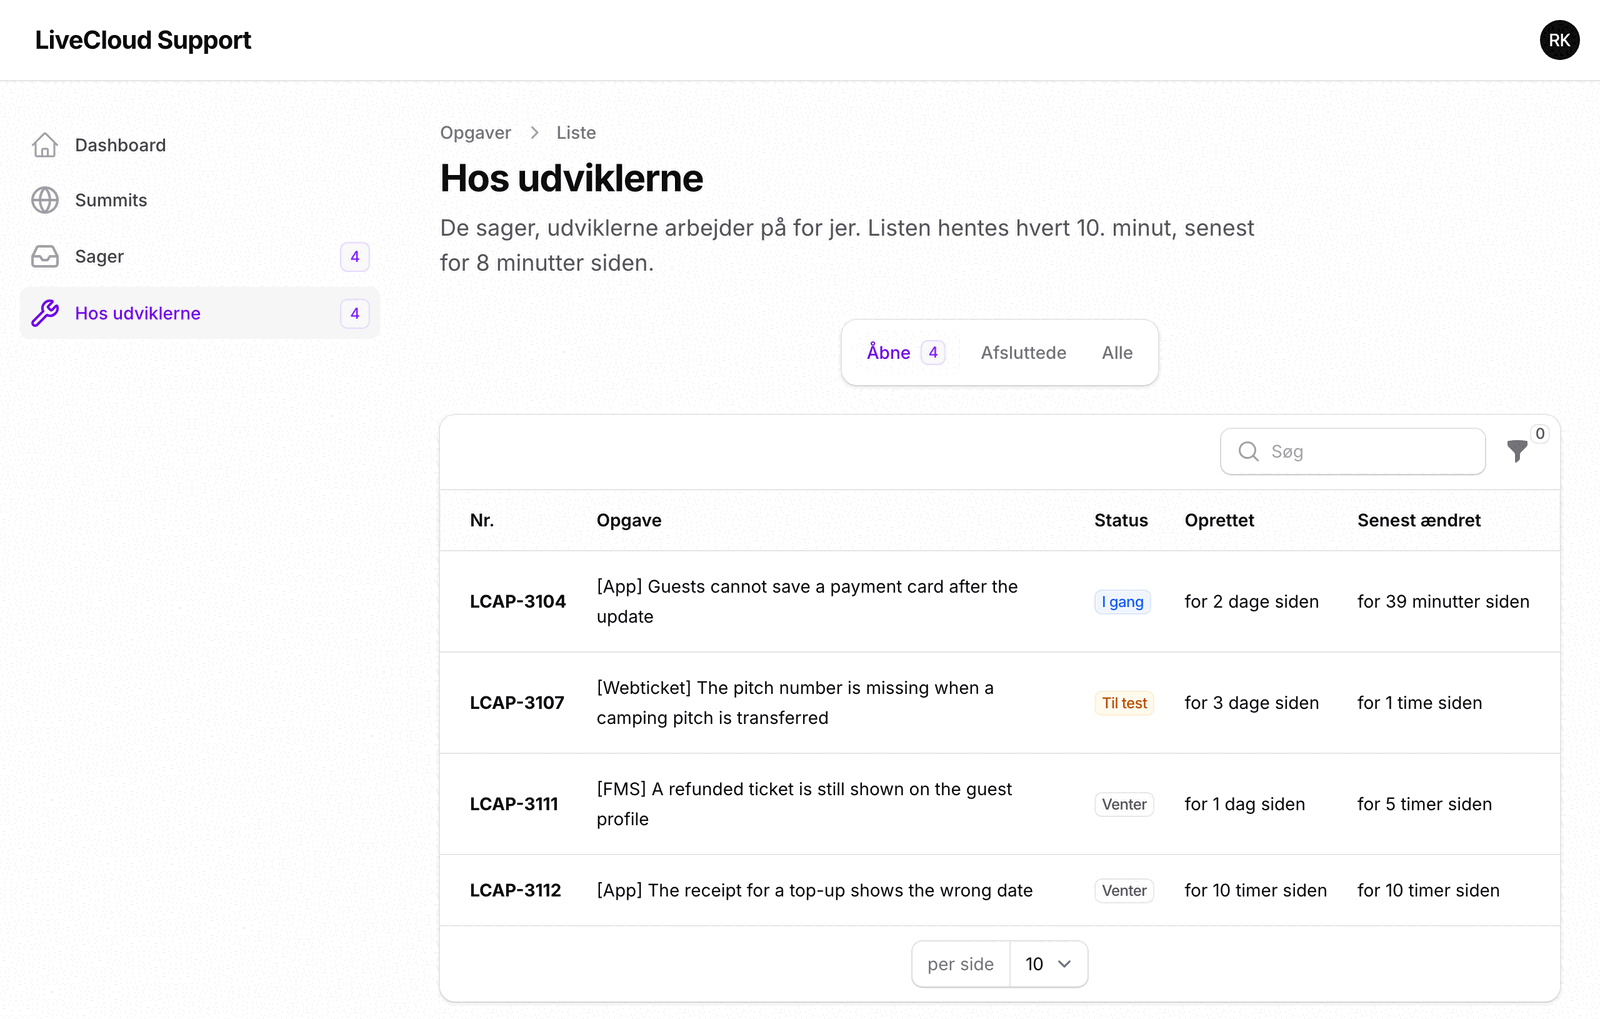
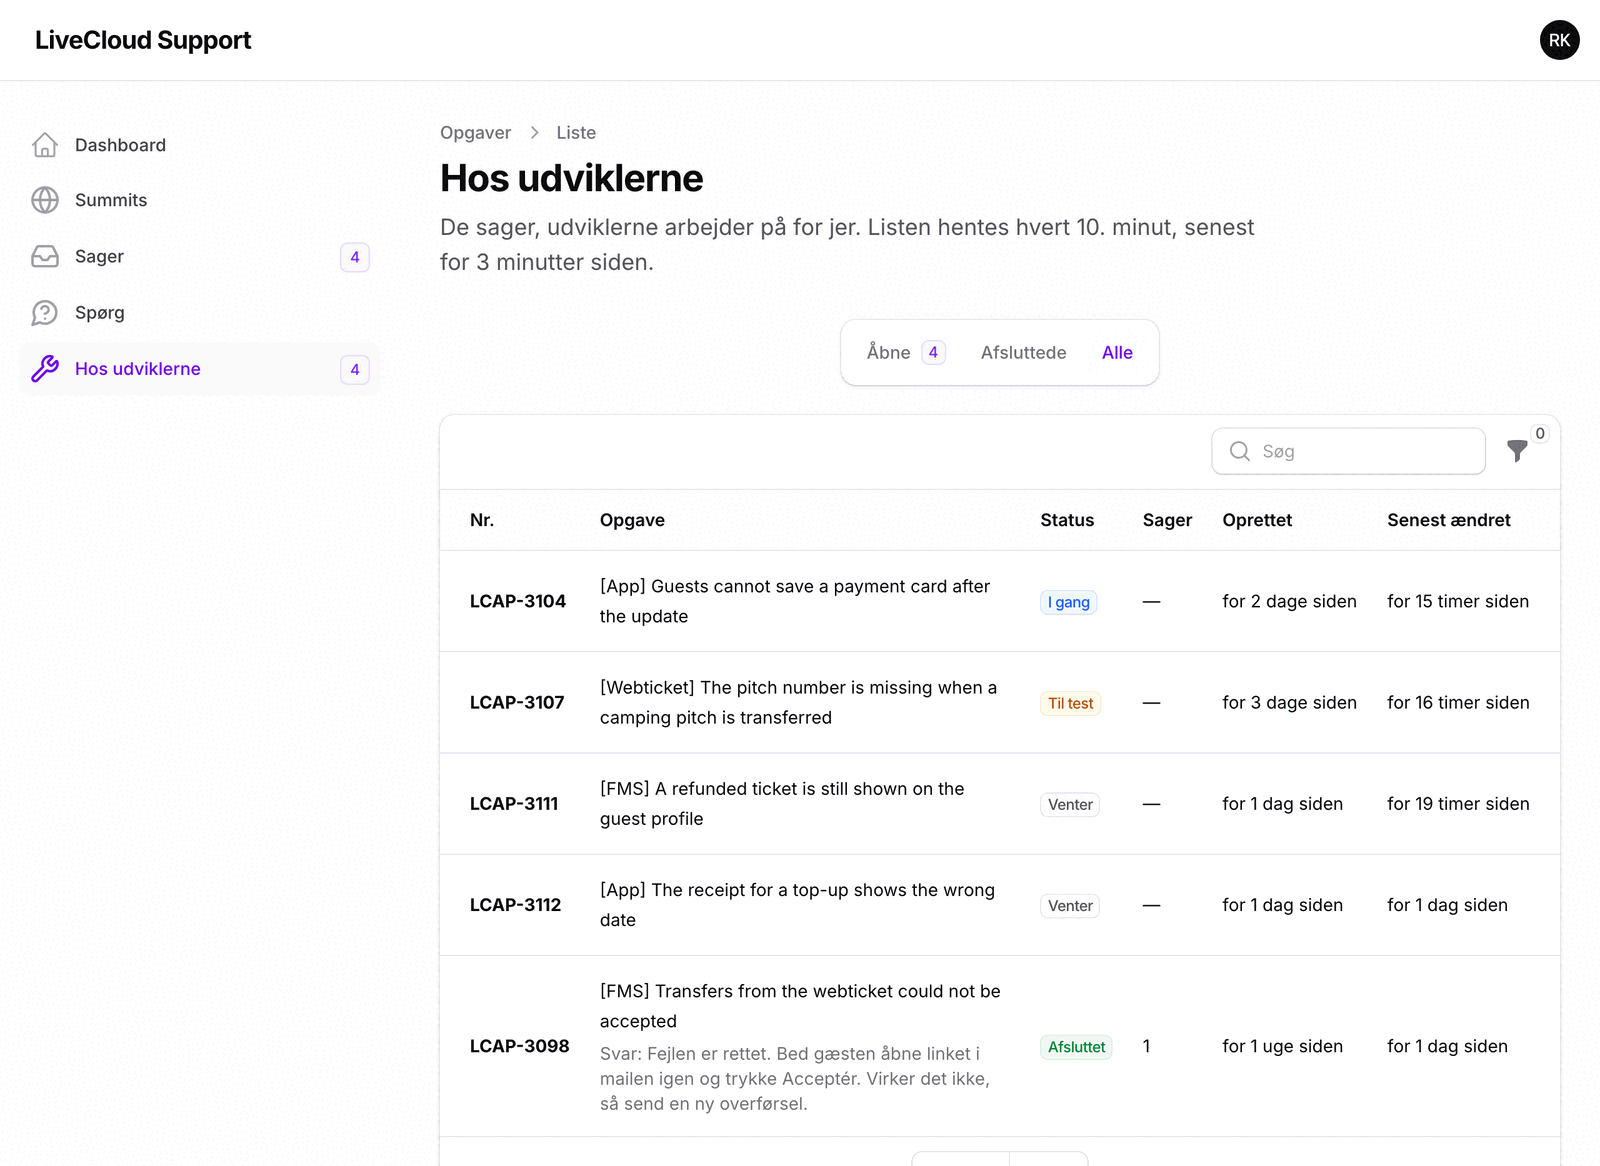
docs(guides): support guide - Spørg, wider search, files on messages, developer task on the case

diff --git a/personale-guides/support-kundeservice.html b/personale-guides/support-kundeservice.html
@@ -90,6 +90,7 @@
     <a href="#svar">Skriv videre på sagen</a>
     <a href="#loest">Når gæsten har fået svar</a>
     <div class="g">Find svaret</div>
+    <a href="#spoerg">Spørg</a>
     <a href="#samme">Samme problem</a>
     <a href="#udviklerne">Hos udviklerne</a>
     <div class="g">Til sidst</div>
@@ -110,7 +111,7 @@
   <div class="roles">
     <div class="box"><h3>Du skal melde en sag</h3><p>Gæsten har et problem, du ikke selv kan løse.</p><ol class="steps"><li><a href="#mail">Pr. mail</a></li><li><a href="#opret">Direkte i systemet</a></li></ol></div>
     <div class="box"><h3>Du vil følge en sag</h3><p>Du vil se, hvad der er sket, eller skrive nyt til LiveCloud.</p><ol class="steps"><li><a href="#sager">Find jeres sager</a></li><li><a href="#svar">Skriv videre på sagen</a></li><li><a href="#loest">Når gæsten har fået svar</a></li></ol></div>
-    <div class="box"><h3>Du leder efter svaret</h3><p>Du vil se, om problemet allerede har en løsning.</p><ol class="steps"><li><a href="#samme">Samme problem</a></li><li><a href="#udviklerne">Hos udviklerne</a></li></ol></div>
+    <div class="box"><h3>Du leder efter svaret</h3><p>Du vil se, om problemet allerede har en løsning.</p><ol class="steps"><li><a href="#spoerg">Spørg</a></li><li><a href="#samme">Samme problem</a></li><li><a href="#udviklerne">Hos udviklerne</a></li></ol></div>
   </div>
   </div>
 
@@ -123,8 +124,8 @@
   </ol>
   <p class="ctx">Mangler en kollega adgang, skriver du til support@livecloud.dk. LiveCloud opretter brugeren.</p>
   <div class="shots"><figure>
-    <img src="img/support-system/sagsliste.png" alt="Sagslisten med menuen til venstre" width="1600" height="1091" loading="lazy">
-    <figcaption><b>Sagslisten.</b> Menuen til venstre har de to punkter, du bruger hver dag: Sager og Hos udviklerne.</figcaption>
+    <img src="img/support-system/sagsliste.png" alt="Sagslisten med menuen til venstre" width="1600" height="1100" loading="lazy">
+    <figcaption><b>Sagslisten.</b> Menuen til venstre har de tre punkter, du bruger hver dag: Sager, Spørg og Hos udviklerne.</figcaption>
   </figure></div>
   </div>
 
@@ -186,7 +187,7 @@
 
   <div class="unit">
   <h3 id="sager">Find jeres sager</h3>
-  <p class="ctx">Under <b>Sager</b> står alle jeres sager. Øverst vælger du mellem <span class="chip">Aktive</span>, <span class="chip">Arkiverede</span> og <span class="chip">Alle</span>. Tryk på <span class="chip">Vis</span> for at åbne en sag. I søgefeltet søger du på et ord fra sagens overskrift.</p>
+  <p class="ctx">Under <b>Sager</b> står alle jeres sager. Øverst vælger du mellem <span class="chip">Aktive</span>, <span class="chip">Arkiverede</span> og <span class="chip">Alle</span>. Tryk på <span class="chip">Vis</span> for at åbne en sag. I søgefeltet søger du på et ord, gæstens e-mail, ordrenummeret eller sagens nummer.</p>
   <table class="means">
     <tr><th>Status</th><th>Det betyder</th></tr>
     <tr><td>Ny</td><td>Sagen er modtaget. Ingen hos LiveCloud har taget den endnu.</td></tr>
@@ -205,6 +206,7 @@
     <tr><td>Sagen</td><td>Status, gæstens e-mail, ordrenummer og hvornår sagen er oprettet.</td></tr>
     <tr><td>Beskrivelse</td><td>Din mail: dit spørgsmål øverst og gæstens mail nedenunder.</td></tr>
     <tr><td>Samme problem</td><td>Løsningen, hvis flere sager handler om det samme. Se <a href="#samme">Samme problem</a>.</td></tr>
+    <tr><td>Hos udviklerne</td><td>Vises, når sagen hører til en opgave hos udviklerne. Her står opgavens status og udviklernes svar.</td></tr>
     <tr><td>Beskeder</td><td>Det, I og LiveCloud har skrevet til hinanden om sagen.</td></tr>
     <tr><td>Billethistorik &amp; opslag</td><td>Knappen <span class="chip">Åbn i Ringsted billet-opslag</span> åbner opslaget i FMS.</td></tr>
     <tr><td>Tidslinje</td><td>Hvad der er sket med sagen, og hvornår.</td></tr>
@@ -219,10 +221,14 @@
   <h3 id="svar">Skriv videre på sagen</h3>
   <p class="ctx">Har du nyt til sagen, eller vil du svare LiveCloud, kan du gøre det på to måder. Begge lander under <b>Beskeder</b> på sagen.</p>
   <ol class="steps">
-    <li><b>I systemet:</b> åbn sagen, og tryk på <span class="chip">Skriv til LiveCloud</span>. Skriv beskeden, og tryk på <span class="chip">Send</span>.</li>
+    <li><b>I systemet:</b> åbn sagen, og tryk på <span class="chip">Skriv til LiveCloud</span>. Skriv beskeden, læg eventuelt skærmbilleder ved, og tryk på <span class="chip">Send</span>.</li>
     <li><b>Pr. mail:</b> svar på mailen fra LiveCloud Support, og behold sagens nummer i emnefeltet, fx <b>[SUP-1006]</b>.</li>
   </ol>
   <p class="ctx">Sagen bliver markeret hos LiveCloud som afventer svar. Er sagen løst eller lukket, åbner den igen af sig selv.</p>
+  <div class="shots"><figure class="narrow">
+    <img src="img/support-system/skriv-til-livecloud.png" alt="Vinduet Skriv til LiveCloud" width="1520" height="801" loading="lazy">
+    <figcaption><b>Skriv til LiveCloud.</b> Beskeden og filerne lander på sagen.</figcaption>
+  </figure></div>
   </div>
 
   <div class="unit">
@@ -241,6 +247,28 @@
   <h2 class="sec" id="find"><small>Find svaret</small>Find løsningen</h2>
 
   <div class="unit">
+  <h3 id="spoerg">Spørg</h3>
+  <p class="ctx">Under <b>Spørg</b> skriver du problemet med dine egne ord. Så leder systemet i de løsninger, LiveCloud har skrevet, i udviklernes svar og i jeres egne løste sager.</p>
+  <ol class="steps">
+    <li>Tryk på <b>Spørg</b> i menuen.</li>
+    <li>Skriv, hvad problemet er. Skriv ikke gæstens navn, e-mail eller CPR-nummer.</li>
+    <li>Tryk på <span class="chip">Find svar</span>.</li>
+  </ol>
+  <div class="shots"><figure>
+    <img src="img/support-system/spoerg.png" alt="Siden Spørg med to fundne løsninger" width="1520" height="1067" loading="lazy">
+    <figcaption><b>Spørg.</b> Mærket til venstre for overskriften viser, hvor svaret kommer fra.</figcaption>
+  </figure></div>
+  <table class="means">
+    <tr><th>Mærke</th><th>Det er</th></tr>
+    <tr><td>Kendt løsning</td><td>En løsning, LiveCloud har skrevet til et problem, der går igen.</td></tr>
+    <tr><td>Samme problem</td><td>Løsningen på et problem, som flere af jeres sager handler om.</td></tr>
+    <tr><td>Svar fra udviklerne</td><td>Det, udviklerne har svaret på en opgave.</td></tr>
+    <tr><td>Tidligere sag</td><td>En af jeres egne løste sager om det samme.</td></tr>
+  </table>
+  <p class="ctx">Finder Spørg ingen løsning, melder du sagen til LiveCloud.</p>
+  </div>
+
+  <div class="unit">
   <h3 id="samme">Samme problem</h3>
   <p class="ctx">Når flere sager handler om det samme, samler LiveCloud dem og skriver løsningen ét sted. Løsningen står så på alle sagerne under <b>Samme problem</b>, sammen med jeres andre sager om det samme.</p>
   <div class="shots"><figure>
@@ -254,17 +282,21 @@
   <h3 id="udviklerne">Hos udviklerne</h3>
   <p class="ctx">Nogle sager kan ikke løses med et svar. De kræver, at en udvikler retter noget. De opgaver står under <b>Hos udviklerne</b>, så du kan se, hvor langt de er.</p>
   <div class="shots"><figure>
-    <img src="img/support-system/hos-udviklerne.png" alt="Siden Hos udviklerne" width="1600" height="1019" loading="lazy">
-    <figcaption><b>Hos udviklerne.</b> Fanerne øverst skifter mellem Åbne, Afsluttede og Alle. Listen opdateres hvert 10. minut.</figcaption>
+    <img src="img/support-system/hos-udviklerne.png" alt="Siden Hos udviklerne" width="1600" height="1166" loading="lazy">
+    <figcaption><b>Hos udviklerne.</b> Fanerne øverst skifter mellem Åbne, Afsluttede og Alle. Under en afsluttet opgave står udviklernes svar. Listen opdateres hvert 10. minut.</figcaption>
   </figure></div>
   <table class="means">
     <tr><th>Status</th><th>Det betyder</th></tr>
     <tr><td>Venter</td><td>Opgaven står i kø. Ingen er gået i gang endnu.</td></tr>
     <tr><td>I gang</td><td>En udvikler arbejder på den.</td></tr>
     <tr><td>Til test</td><td>Rettelsen er lavet og bliver testet.</td></tr>
-    <tr><td>Afsluttet</td><td>Udviklerne er færdige med opgaven. Hvad du skal sige til gæsten, får du som svar på sagen.</td></tr>
+    <tr><td>Afsluttet</td><td>Udviklerne er færdige med opgaven. Deres svar står under opgaven og på de sager, der hører til den.</td></tr>
   </table>
-  <p class="ctx">Overskrifterne står på engelsk, som udviklerne har skrevet dem. Nummeret til venstre, fx LCAP-3104, kan du henvise til, når du skriver til LiveCloud.</p>
+  <p class="ctx">Overskrifterne står på engelsk, som udviklerne har skrevet dem. Nummeret til venstre, fx LCAP-3104, kan du henvise til, når du skriver til LiveCloud. Kolonnen <b>Sager</b> viser, hvor mange af jeres sager der hører til opgaven.</p>
+  <div class="shots"><figure>
+    <img src="img/support-system/sag-hos-udviklerne.png" alt="Feltet Hos udviklerne på en sag" width="1520" height="430" loading="lazy">
+    <figcaption><b>På sagen.</b> Hører sagen til en opgave hos udviklerne, står opgavens status og svaret også på selve sagen.</figcaption>
+  </figure></div>
   </div>
   </div>
 
@@ -278,7 +310,7 @@
     <li><b>Ordrenummer og gæstens e-mail med hver gang.</b> Så kan LiveCloud finde gæsten uden at spørge dig.</li>
     <li><b>Aldrig CPR-numre, kortnumre eller adgangskoder.</b> Har gæsten selv skrevet dem, sletter du dem, før du videresender.</li>
     <li><b>Følg op på sagen, ikke i en ny mail.</b> Skriv på sagen, eller svar på mailen med sagens nummer i emnefeltet.</li>
-    <li><b>Kig under Samme problem først.</b> Står løsningen der, behøver du ikke at vente på svar.</li>
+    <li><b>Brug Spørg først.</b> Står løsningen der, behøver du ikke at vente på svar.</li>
     <li><b>Markér sagen som løst,</b> når gæsten har fået svar.</li>
   </ul>
   </div>
@@ -290,7 +322,7 @@
     <tr><td>Du kan ikke logge ind</td><td>Tryk på <span class="chip">Glemt din adgangskode?</span> på login-siden. Virker det ikke, skriver du til support@livecloud.dk.</td></tr>
     <tr><td>Du fik ingen kvittering på din mail</td><td>Se i uønsket post. Kig derefter under Sager. Står sagen der, er den modtaget.</td></tr>
     <tr><td>Dit svar blev til en ny sag</td><td>Sagens nummer manglede i emnefeltet. Åbn den nye sag, tryk på <span class="chip">Skriv til LiveCloud</span>, og skriv det gamle sagsnummer. Så lægger LiveCloud de to sammen.</td></tr>
-    <tr><td>Du kan ikke finde en sag</td><td>Se under <span class="chip">Arkiverede</span> og <span class="chip">Alle</span>, og søg på et ord fra overskriften.</td></tr>
+    <tr><td>Du kan ikke finde en sag</td><td>Se under <span class="chip">Arkiverede</span> og <span class="chip">Alle</span>, og søg på et ord, gæstens e-mail eller sagens nummer.</td></tr>
     <tr><td>Sagen står som Løst, men gæsten har stadig problemet</td><td>Tryk på <span class="chip">Genåbn</span>, eller skriv på sagen. Så åbner den igen.</td></tr>
   </table>
   </div>
